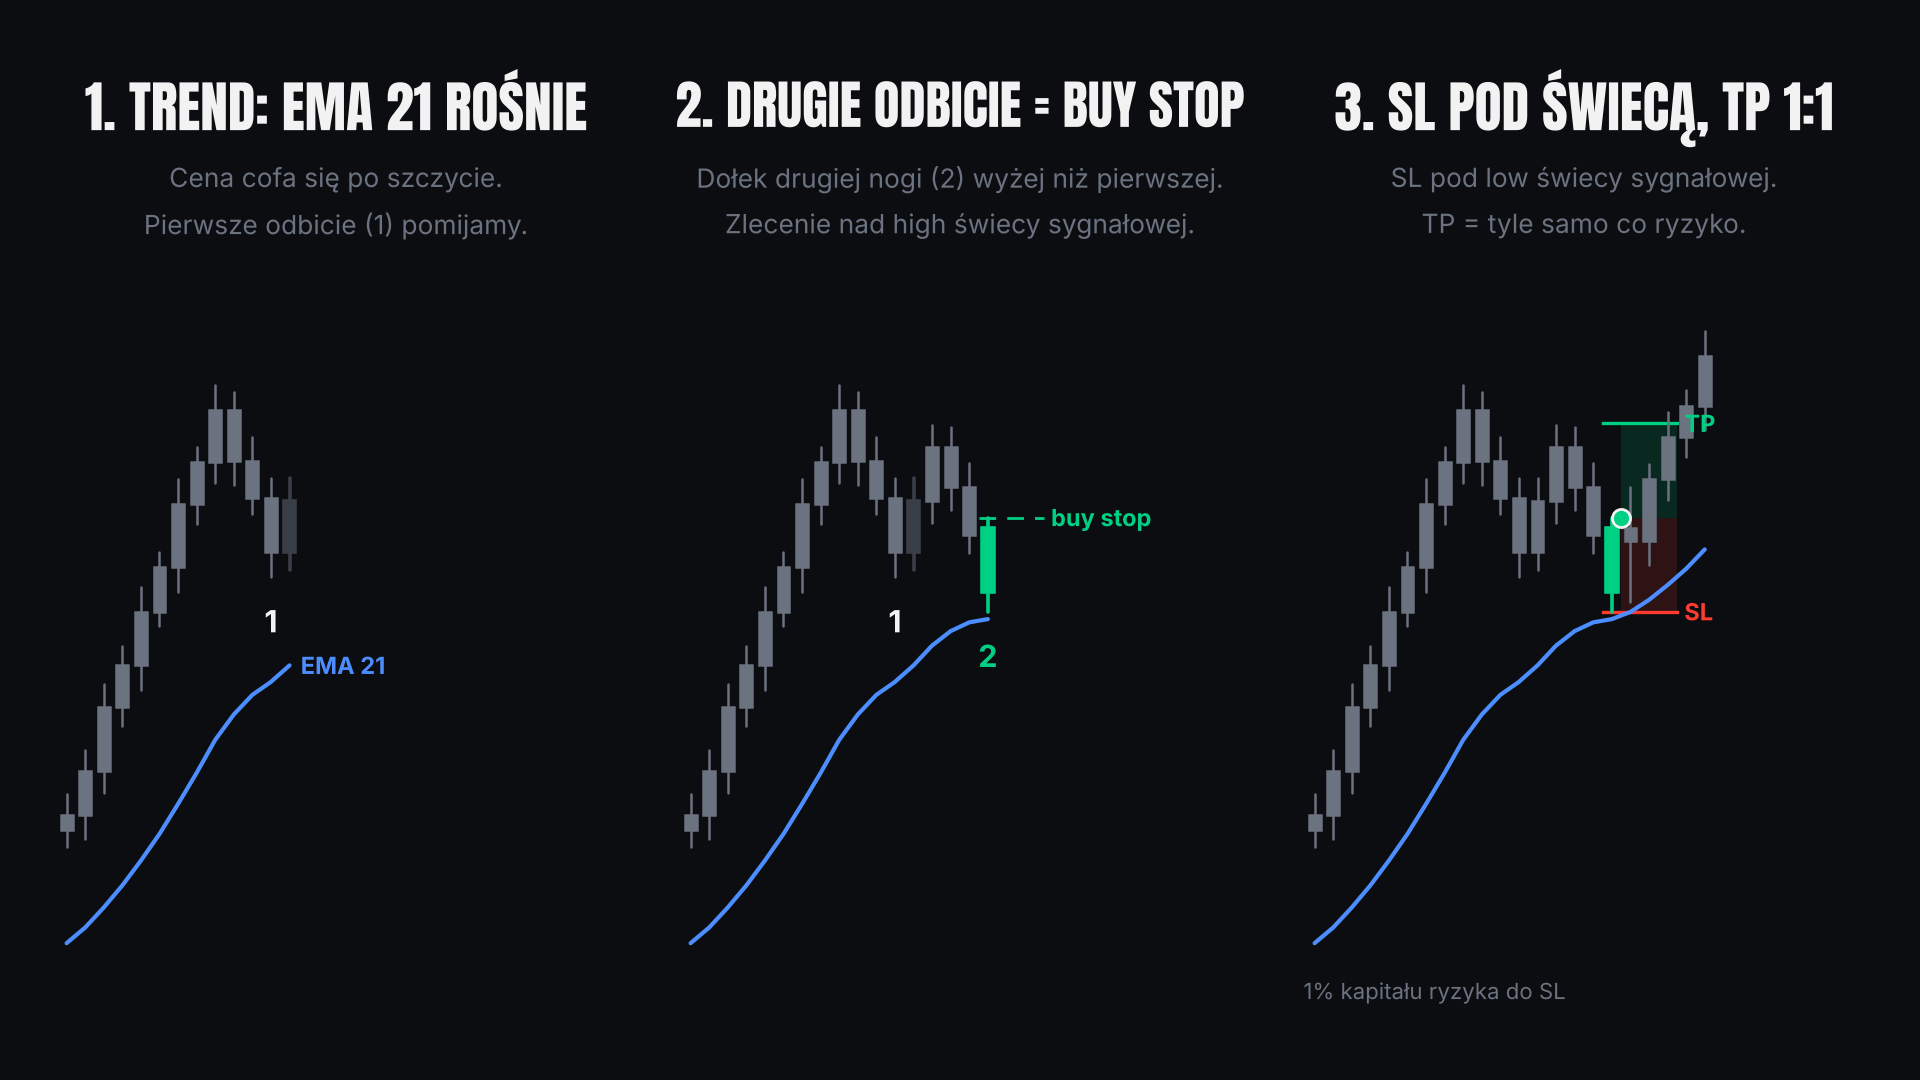
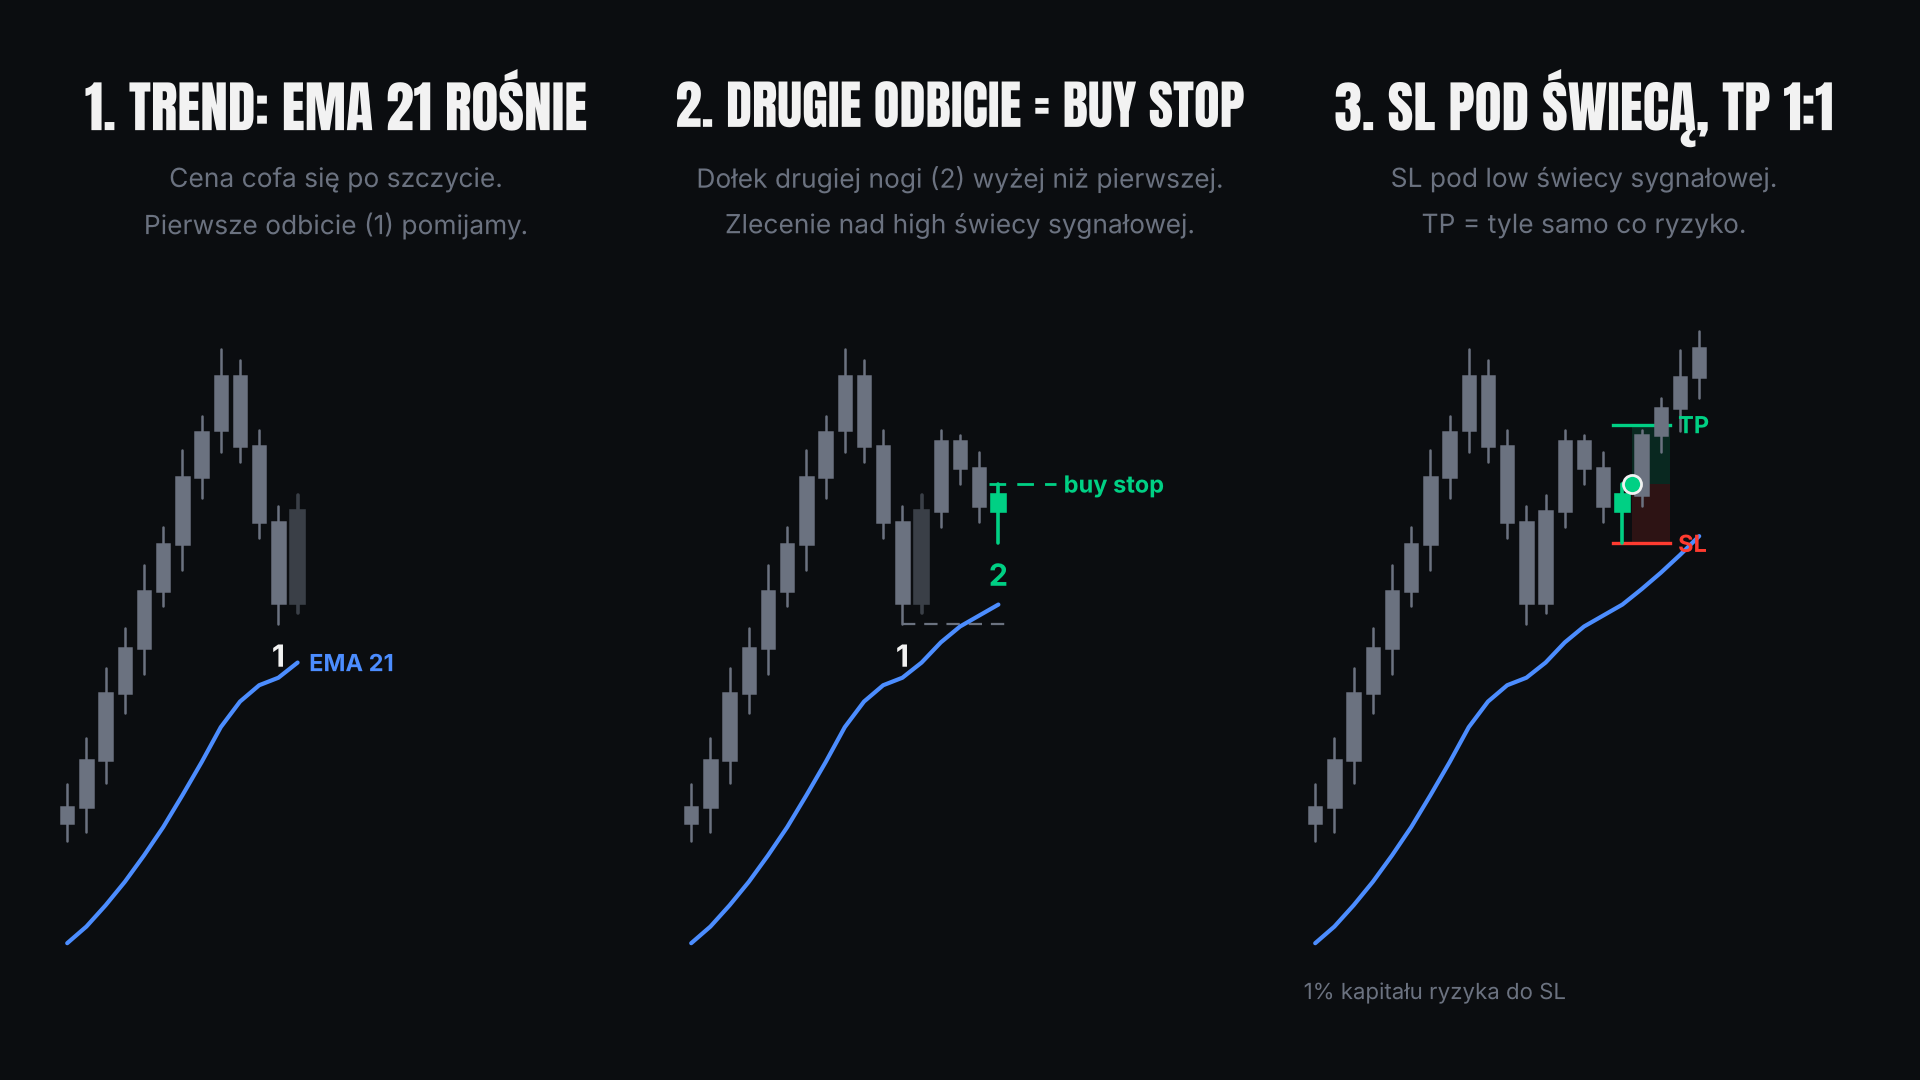
Plansza Second Entry: dołek drugiej nogi wyraźnie wyżej niż pierwszej
Claude-Session: https://claude.ai/code/session_01DmSsWCFFfprBvBSMXnpg4v

diff --git a/narzedzia/plansze_objasniajace/reddit_plansze.py b/narzedzia/plansze_objasniajace/reddit_plansze.py
@@ -125,9 +125,19 @@ def rsi_90():
 # ───────────────────────── Second Entry ─────────────────────────
 def second_entry():
     H, n = 30, 40
-    cl = path([(0, 92), (H, 100), (H + 8, 108), (H + 11, 105.2), (H + 13, 107.3), (H + 16, 104.6), (H + 17, 105.4),
-               (H + 18, 106.6), (H + 26, 113), (H + 39, 116)], H + n, 0.15)
-    over = {}
+    # pierwsza noga cofnięcia głębsza, druga płytsza: dołek 2 wyraźnie wyżej niż dołek 1
+    cl = path([(0, 92), (H, 100), (H + 8, 108), (H + 11, 103.6), (H + 13, 106.8), (H + 16, 105.6), (H + 17, 106.1),
+               (H + 18, 107.2), (H + 26, 113), (H + 39, 116)], H + n, 0.15)
+    # cofnięcie rysowane świeca po świecy, żeby obie nogi były czytelne
+    P = {8: (107.0, 108.5, 106.6, 108.0), 9: (108.0, 108.3, 106.4, 106.7), 10: (106.7, 107.0, 105.0, 105.3),
+         11: (105.3, 105.6, 103.4, 103.8),   # dołek nogi 1
+         12: (103.8, 105.8, 103.6, 105.5),   # H1: pierwsze wyższe high (nie gramy)
+         13: (105.5, 107.0, 105.2, 106.8), 14: (106.8, 106.9, 106.0, 106.3), 15: (106.3, 106.6, 105.3, 105.6),
+         16: (105.6, 106.0, 104.9, 105.8),   # świeca sygnałowa, dołek nogi 2 wyżej niż nogi 1
+         17: (105.8, 107.0, 105.6, 106.9), 18: (106.9, 107.6, 106.6, 107.4)}
+    over = {H + k: v for k, v in P.items()}
+    for k, v in P.items():
+        cl[H + k] = v[3]
     Ball = bars_from(cl, wick=0.45, over=over)
     e = ema(cl, 21)
     B, e = Ball[H:], e[H:]
@@ -146,20 +156,23 @@ def second_entry():
     EXIT = next(i for i in range(ENT, n) if B[i][1] >= tp)
     n = EXIT + 3
     leg1 = min(range(top, H1 + 1), key=lambda i: B[i][2])
-    leg2 = min(range(H1, SIG + 1), key=lambda i: B[i][2])
+    top2 = max(range(H1, SIG + 1), key=lambda i: B[i][1])  # szczyt odbicia 1 — od niego zaczyna się druga noga
+    leg2 = min(range(top2, SIG + 1), key=lambda i: B[i][2])
+    assert B[leg2][2] > B[leg1][2] + 0.5, "dołek drugiej nogi musi być wyżej niż pierwszej"
     lo, hi = ylim_of(B, n, extra=[e[0]], pad=0.1)
 
     fig = figure()
     s = Seg(fig, 0, "1. TREND: EMA 21 ROŚNIE", "Cena cofa się po szczycie.\nPierwsze odbicie (1) pomijamy.", n, (lo, hi))
     s.candles(B, H1 + 1, {H1: DIM})
     s.line(e, H1 + 1, BLUE, label="EMA 21")
-    s.tag(leg1, B[leg1][2], "1", FG, True, size=22)
+    s.tag(leg1, B[leg1][2], "1", FG, True, size=22, off=0.5)
 
     s = Seg(fig, 1, "2. DRUGIE ODBICIE = BUY STOP", "Dołek drugiej nogi (2) wyżej niż pierwszej.\nZlecenie nad high świecy sygnałowej.", n, (lo, hi))
     s.candles(B, SIG + 1, {H1: DIM, SIG: GREEN})
     s.line(e, SIG + 1, BLUE)
-    s.tag(leg1, B[leg1][2], "1", FG, True, size=22)
-    s.tag(leg2, B[leg2][2], "2", GREEN, True, size=22)
+    s.tag(leg1, B[leg1][2], "1", FG, True, size=22, off=0.5)
+    s.tag(leg2, B[leg2][2], "2", GREEN, True, size=22, off=0.5)
+    s.level(B[leg1][2], leg1, SIG + 0.5, GREY, lw=1.6)  # poziom dołka 1: dołek 2 jest nad nim
     s.level(entry, SIG - 0.5, SIG + 3, GREEN, "buy stop", lw=2)
 
     s = Seg(fig, 2, "3. SL POD ŚWIECĄ, TP 1:1", "SL pod low świecy sygnałowej.\nTP = tyle samo co ryzyko.", n, (lo, hi))
